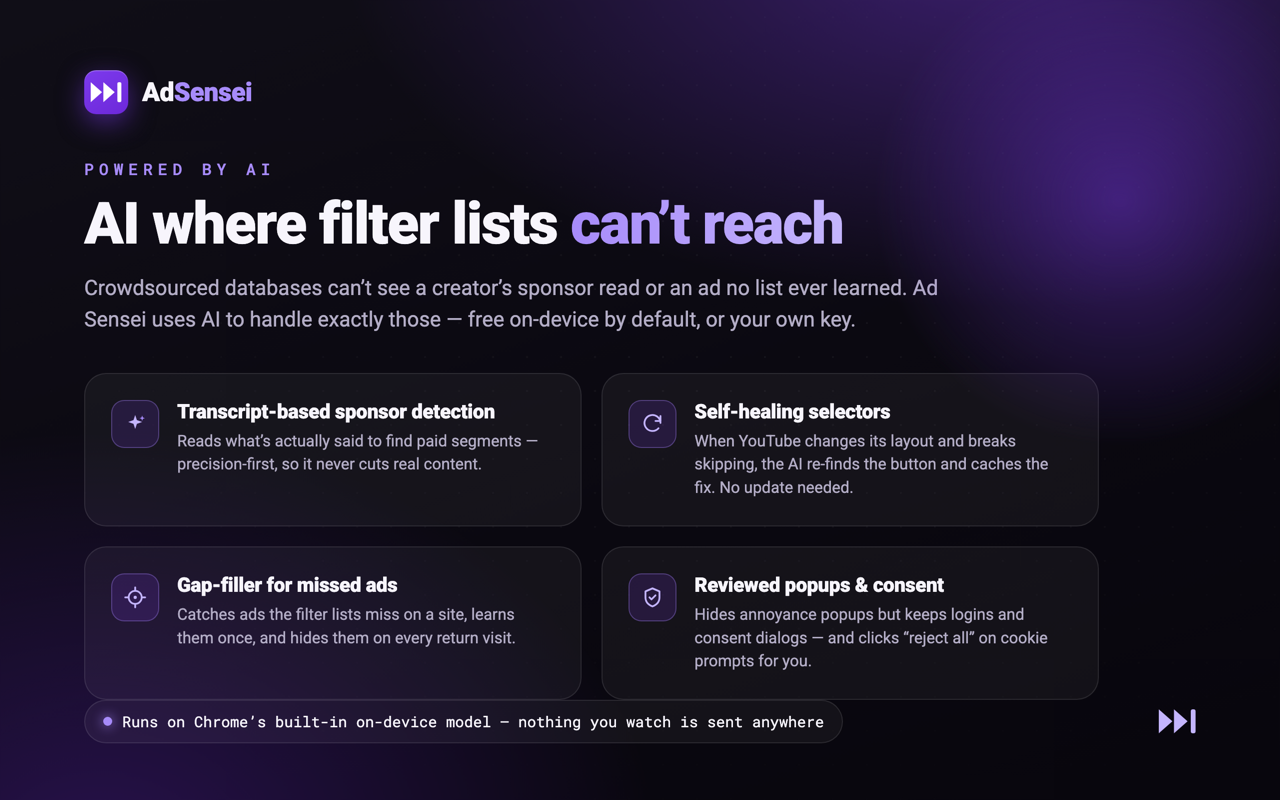
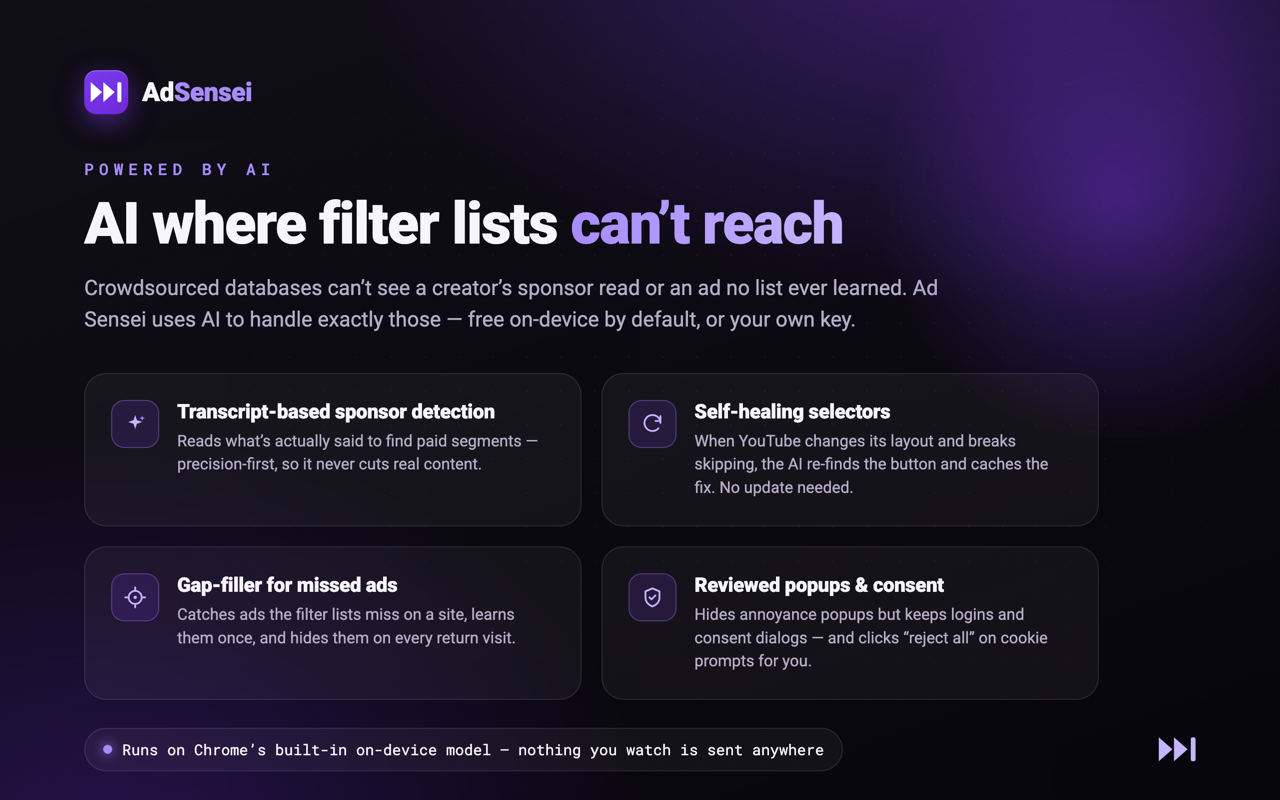
docs(cws): fix AI-tile chip spacing + add real-popup tile, recommend submit set
Slide 6's footer chip sat flush against the card grid (0px gap, auto margin
collapsed by overflowing content); an explicit 28px footer margin centers it.
New slide 7 renders the actual popup "This site" view as a store tile, and the
README now names the recommended 5-of-7 upload set.

Changed region(s): [[0.0625, 0.875, 0.375, 0.9688], [0.4062, 0.875, 0.6562, 0.9688], [0.9062, 0.875, 0.9375, 0.9688]]

diff --git a/docs/cws-screenshots/README.md b/docs/cws-screenshots/README.md
@@ -14,12 +14,17 @@ headless Chrome at 2× then downscaled for crisp text.
 | `4-alt-sponsor-timeline.png` | 1280×800 | Screenshot — AI sponsor-segment skip (timeline) |
 | `5-ai.png` | 1280×800 | Screenshot — "AI where filter lists can't reach" |
 | `6-private.png` | 1280×800 | Screenshot — "Powerful. Private. Free." |
+| `7-popup.png` | 1280×800 | Screenshot — the real popup UI ("This site" view) |
 | `promo-tile-440x280.png` | 440×280 | Small promo tile (search/category results) |
 
 Screenshots are 1280×800 (CWS's preferred size). **A CWS listing accepts at
-most 5 screenshots**, so pick 5 of the six 1280×800 tiles at upload time — the
-sponsor timeline (`4-`) and the AI grid (`5-`) overlap, so they're the natural
-either/or.
+most 5 screenshots.** The recommended set, in upload order (staged in
+`~/Desktop/cws-screenshots/submit/`): `1-hero`, `3-youtube`,
+`4-alt-sponsor-timeline`, `7-popup`, `6-private`. That drops `2-three-layers`
+(its story is covered by the hero chips + popup stat cards) and `5-ai` (the
+sponsor timeline covers the AI moat; the two overlap). The popup tile mirrors
+the real `entrypoints/popup` "This site" view — keep it in sync if the popup UI
+changes materially.
 
 ## Regenerating
 
